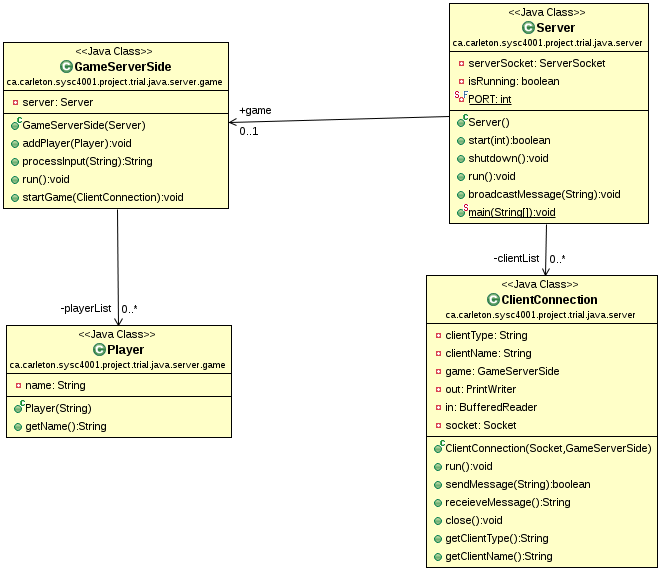
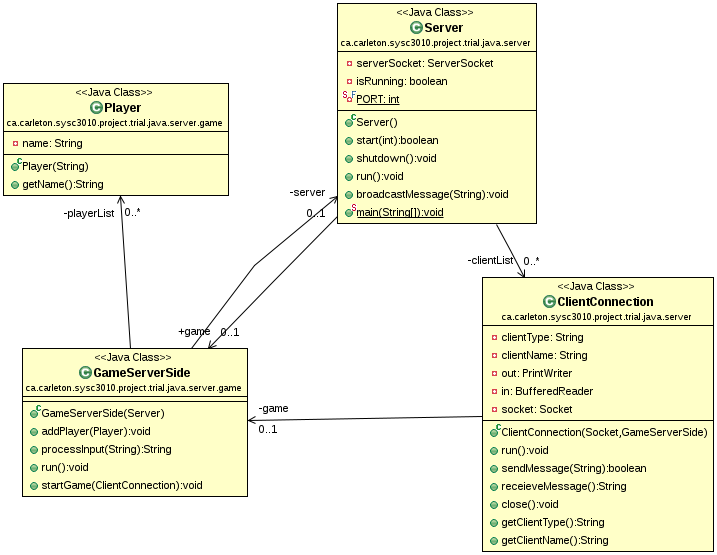
Added some changes and added ready to deploy files for alpha 0.1 for testing purposes.

diff --git a/Trial Project/ServerSide/src/ca/carleton/sysc3010/project/trial/java/server/Server.java b/Trial Project/ServerSide/src/ca/carleton/sysc3010/project/trial/java/server/Server.java
@@ -9,6 +9,7 @@ import java.util.Scanner;
 import ca.carleton.sysc3010.project.trial.java.client.Client;
 import ca.carleton.sysc3010.project.trial.java.server.game.GameServerSide;
 import ca.carleton.sysc3010.project.trial.java.server.game.Player;
+import ca.carleton.sysc3010.project.trial.java.utility.CommunicationMessages;
 
 /**
  * Our RPI Game Server that will be run on start up or manually. 
@@ -77,6 +78,32 @@ public class Server extends Thread {
         }
       }
 	
+	public boolean addClient(ClientConnection cc)
+	{
+		return clientList.add(cc);
+	}
+	
+	public boolean removeClient(ClientConnection cc)
+	{
+		return clientList.remove(cc);
+	}
+	
+	/**
+	 * Send a message to a specific client.
+	 * @param clientName Client name to send message.
+	 */
+	public void sendMessageToClient(String clientName, String message)
+	{
+		for(ClientConnection cc : clientList)
+		{
+			if(cc.getName().equals(clientName))
+			{
+				cc.sendMessage(message);
+				break;
+			}
+		}
+	}
+	
 	/**
 	 * To send something to all players/clients, simply implemented for low scale.
 	 * @param message The message to broadcast to all clients connected.d
@@ -89,6 +116,15 @@ public class Server extends Thread {
 		}
 	}
 	
+	
+	public void broadcastDisplayMessage(String message)
+	{
+		for(ClientConnection cc: clientList)
+		{
+			cc.sendMessage(CommunicationMessages.Server.DISPLAY);
+			cc.sendMessage(message);
+		}
+	}
 	/*public synchronized void blockAcceptingConnections()
 	{
 		try {
@@ -116,9 +152,10 @@ public class Server extends Thread {
     	server.game.start(); //thread method
     	
 		Scanner terminal = new Scanner(System.in);
-			
+		//terminal.useDelimiter("\n|\r\n|\\s+");
+		
 		while(server.isAlive()){
-			String command = terminal.next();
+			String command = terminal.nextLine();
 			if (command.equals("shutdown"))
 			{
 				System.out.println("Shutting down Server...");
@@ -135,6 +172,10 @@ public class Server extends Thread {
 			{
 				//server.unblockAcceptingConnections();
 			}*/
+			else if(command.equals("broadcast"))
+			{
+				server.broadcastDisplayMessage(terminal.nextLine());
+			}
 			else {
 				System.out.println("Error: Invalid command.");
 			}

diff --git a/Trial Project/ServerSide/src/ca/carleton/sysc3010/project/trial/java/server/game/GameServerSide.java b/Trial Project/ServerSide/src/ca/carleton/sysc3010/project/trial/java/server/game/GameServerSide.java
@@ -62,6 +62,7 @@ public class GameServerSide extends Thread{
 	 */
 	public synchronized void startGame(ClientConnection cc)
 	{
+		server.addClient(cc);//TODO: when game done remove client.
 		if(playerList.size()<3){
 			System.out.println("Waiting for " + (3-playerList.size()) + " more players...");
 			cc.sendMessage(CommunicationMessages.Server.DISPLAY);

diff --git a/Trial Project/ClientSide/src/ca/carleton/sysc3010/project/trial/java/client/InterpreterJava.java b/Trial Project/ClientSide/src/ca/carleton/sysc3010/project/trial/java/client/InterpreterJava.java
@@ -8,7 +8,7 @@ import org.python.util.PythonInterpreter;
  * @Pierre
  *
  */
-
+`
 public class InterpreterJava  
 {  
    PythonInterpreter interpreter = null;  

diff --git a/Trial Project/ClientSide/src/ca/carleton/sysc3010/project/trial/java/client/Client.java b/Trial Project/ClientSide/src/ca/carleton/sysc3010/project/trial/java/client/Client.java
@@ -146,6 +146,7 @@ public class Client {
 		}
 		
 		//client terminated
+		System.out.println("Client exited.");
 		client.connection.closeConnection();
 		
 	}
